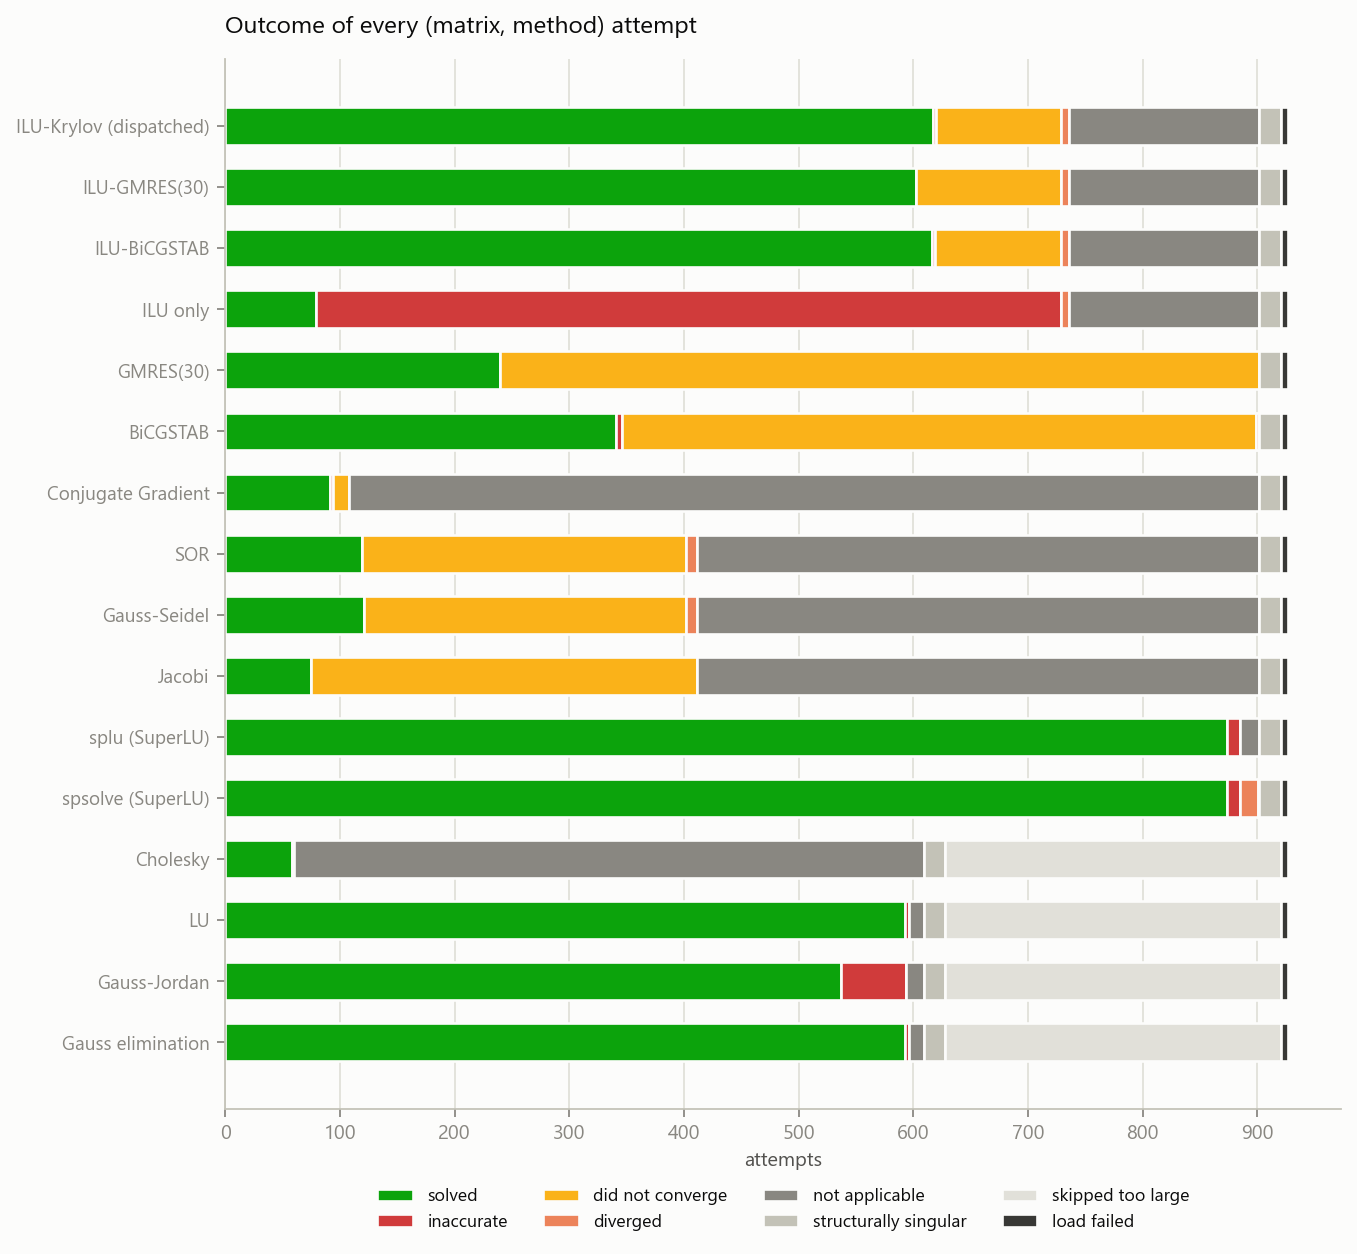
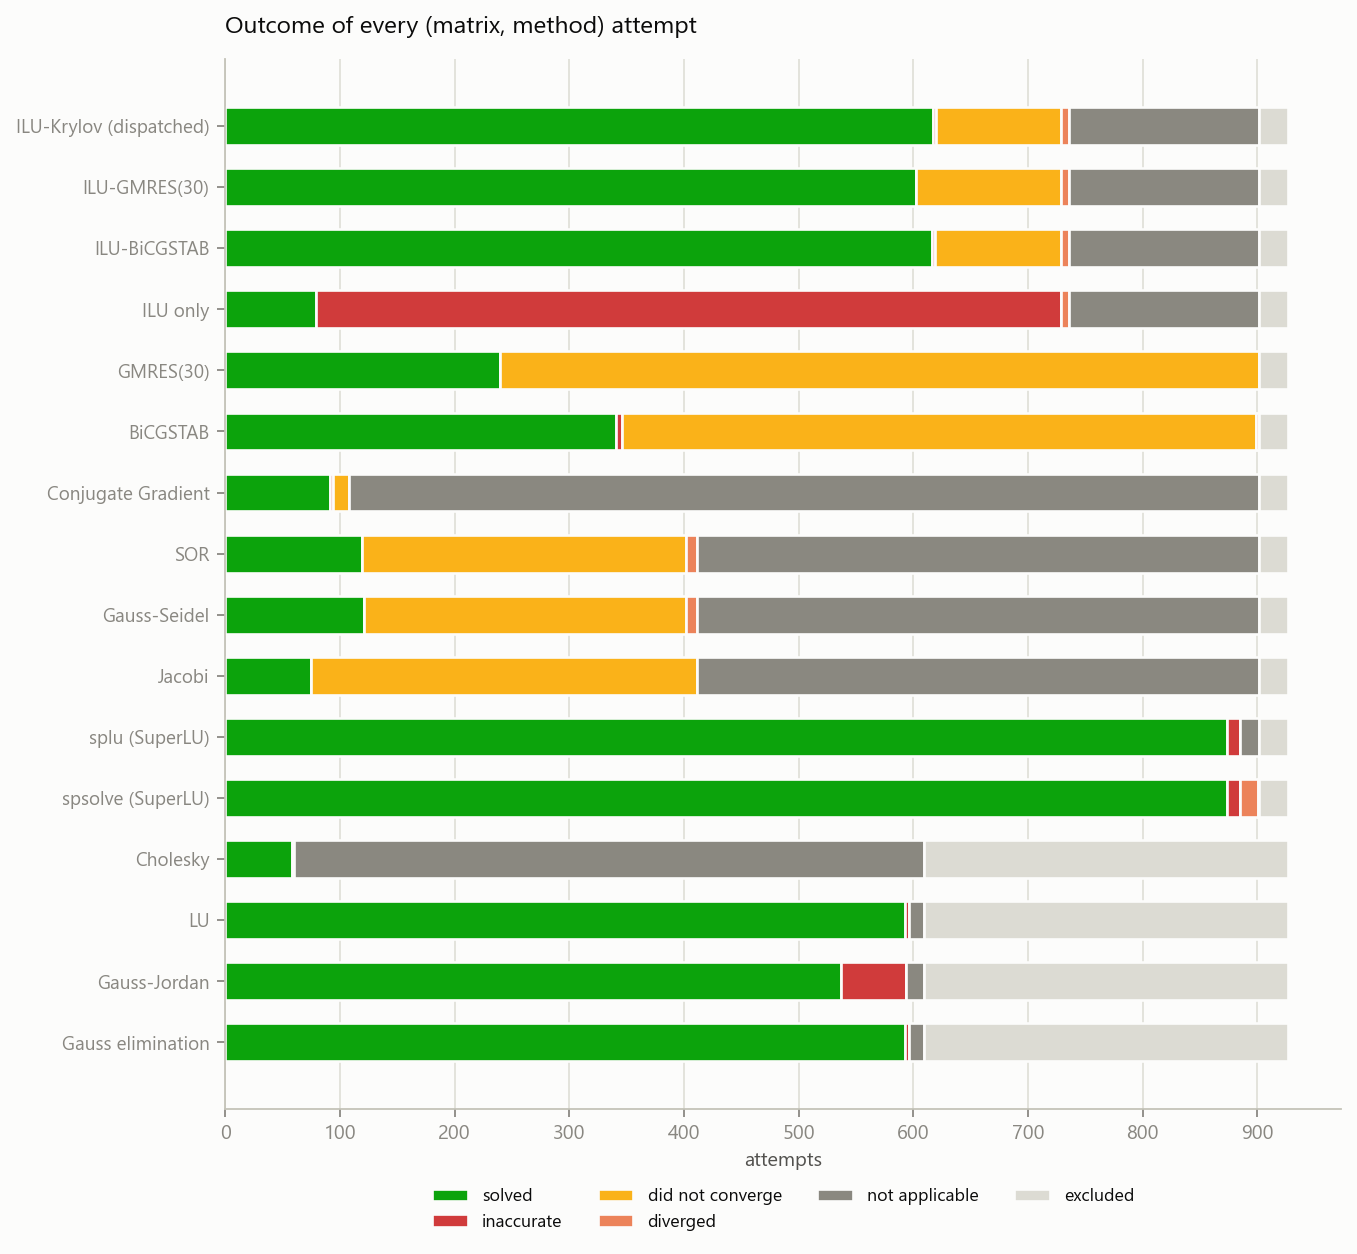
Cut the outcome chart from eight colour classes to six
Three of the eight were light greys -- structurally_singular, skipped_too_large and
load_failed -- and nobody could tell them apart. Past about seven classes adjacent ones
blur, so the fix is fewer classes rather than better greys.

Those three are also the ones that say nothing about a solver: a truncated file, a matrix
with no unique solution, and a size we chose not to attempt are properties of the corpus
and the harness. They become one 'excluded' class. 'not applicable' stays separate
because it is a real result -- it means the method is mathematically undefined on that
matrix, which is the whole reason Jacobi's denominator is 411 rather than 927.

Six classes now: four outcomes in status colours plus two neutrals a full lightness step
apart, so they separate under any colour vision.

The clearer palette exposed something the old one buried: ILU only carries 657
'inaccurate' attempts. Applied on its own the preconditioner always returns an answer
without complaint, and that answer fails the residual test two thirds of the time -- which
is exactly why it is in the benchmark as a control.

diff --git a/tools/make_figures.py b/tools/make_figures.py
@@ -42,10 +42,19 @@ ROOT = Path(__file__).resolve().parent.parent
 C1, C2, C3 = "#2a78d6", "#eb6834", "#1baf7a"
 SEQ = ["#cde2fb", "#b7d3f6", "#9ec5f4", "#86b6ef", "#6da7ec", "#5598e7",
        "#3987e5", "#2a78d6", "#256abf", "#1c5cab", "#184f95", "#104281", "#0d366b"]
-STATUS = {"solved": "#0ca30c", "inaccurate": "#d03b3b", "did_not_converge": "#fab219",
-          "diverged": "#ec835a", "not_applicable": "#898781",
-          "structurally_singular": "#c3c2b7", "skipped_too_large": "#e1e0d9",
-          "error": "#52514e", "load_failed": "#383835"}
+# Four real outcomes in status colours, then two neutrals. The neutrals are a full
+# lightness step apart (OKLCH L about 0.62 against 0.88) so they separate under any
+# colour vision; the four greys they replace did not.
+STATUS = {"solved": "#0ca30c",            # good
+          "inaccurate": "#d03b3b",        # critical: claimed success, wrong answer
+          "did_not_converge": "#fab219",  # warning: admitted failure
+          "diverged": "#ec835a",          # serious: blew up
+          "not_applicable": "#8a8880",    # the method is undefined on this matrix
+          "excluded": "#dcdbd3"}          # corpus/harness, says nothing about the solver
+
+#: Reasons that are properties of the corpus or the harness rather than results.
+EXCLUDED_AS = {"structurally_singular": "excluded", "skipped_too_large": "excluded",
+               "load_failed": "excluded", "error": "excluded"}
 
 SURFACE, INK, INK2, MUTED = "#fcfcfb", "#0b0b0b", "#52514e", "#898781"
 GRID, AXIS = "#e1e0d9", "#c3c2b7"
@@ -140,10 +149,19 @@ def fig_scoreboard(res):
 
 
 def fig_outcomes(res):
-    """Every attempt accounted for, including the ones that never ran."""
+    """Every attempt accounted for, including the ones that never ran.
+
+    Eight colour classes was one or two too many: `structurally_singular`,
+    `skipped_too_large` and `load_failed` were three light greys nobody could tell
+    apart. They are also the three that say nothing about the solver -- a broken file
+    and a matrix with no unique solution are properties of the corpus, not results.
+    They collapse into one "excluded" class, leaving six: four real outcomes,
+    "not applicable" where the method is undefined, and "excluded".
+    """
     from collections import OrderedDict
     order = list(OrderedDict.fromkeys(res["method"]))
-    counts = (res.groupby(["method", "status"]).size().unstack(fill_value=0)
+    grouped = res.assign(status=res.status.map(lambda s: EXCLUDED_AS.get(s, s)))
+    counts = (grouped.groupby(["method", "status"]).size().unstack(fill_value=0)
               .reindex(order))
     present = [s for s in STATUS if s in counts.columns]
     counts = counts[present]
